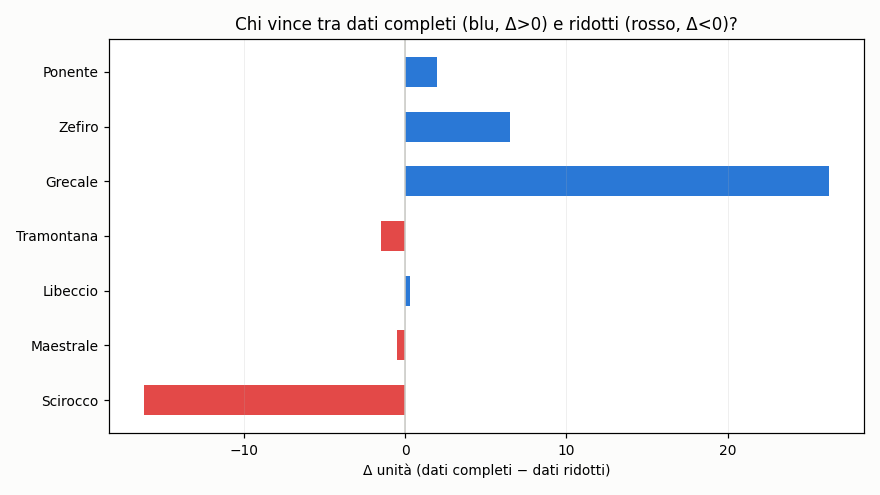
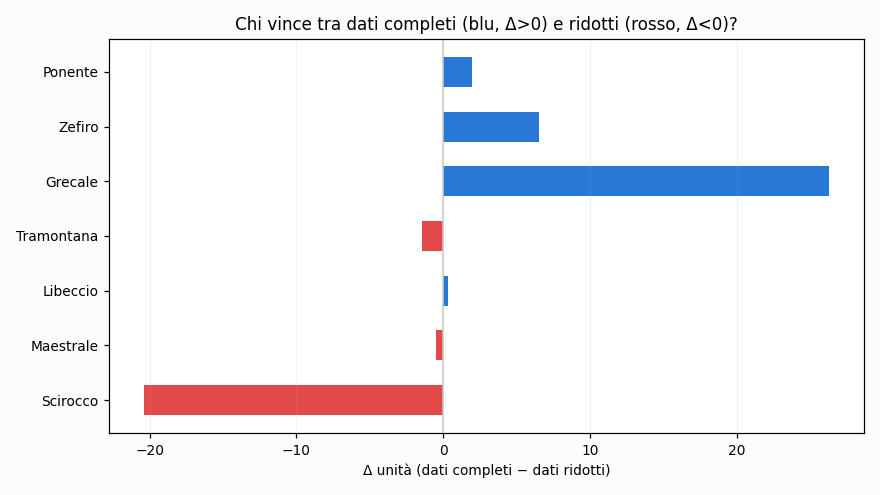
aggiornamento 2026-07-26 13:56 UTC

diff --git a/README.md b/README.md
@@ -37,9 +37,9 @@ scala in unità). Non indichiamo quale.
 
 ## Grafici
 
-![Coppie: dati completi vs ridotti](https://raw.githubusercontent.com/Kitem19/ippica-track-record/main/charts/equity_pairs.png?v=5e5bf558)
+![Coppie: dati completi vs ridotti](https://raw.githubusercontent.com/Kitem19/ippica-track-record/main/charts/equity_pairs.png?v=b3aca9e9)
 
-![Delta per coppia](https://raw.githubusercontent.com/Kitem19/ippica-track-record/main/charts/coppie_delta.png?v=a813c648)
+![Delta per coppia](https://raw.githubusercontent.com/Kitem19/ippica-track-record/main/charts/coppie_delta.png?v=15081922)
 
 ### Come leggere i grafici
 
@@ -56,7 +56,7 @@ scala in unità). Non indichiamo quale.
 
 _Poche giornate: numeri ancora rumorosi, si conclude a fine fase (31/7)._
 
-- **Scirocco**: dati ridotti avanti di 16,2u — qui gli extra non aiutano
+- **Scirocco**: dati ridotti avanti di 20,4u — qui gli extra non aiutano
 - **Maestrale**: in sostanziale pareggio — troppo presto per dire
 - **Libeccio**: in sostanziale pareggio — troppo presto per dire
 - **Tramontana**: in sostanziale pareggio — troppo presto per dire
@@ -69,7 +69,7 @@ _Poche giornate: numeri ancora rumorosi, si conclude a fine fase (31/7)._
 | Sistema | Cassa (u) | P/L (u) | Selezioni | Escluse | Stato |
 |---|---|---|---|---|---|
 | Grecale | 26,1 | +6,1 | 301 | 4 | 🟢 |
-| Scirocco-B | 16,1 | -3,9 | 230 | 0 | 🟢 |
+| Scirocco-B | 20,4 | +0,4 | 231 | 0 | 🟢 |
 | Zefiro | 6,1 | -13,9 | 261 | 8 | ⏸ |
 | Tramontana-B | 1,2 | -18,8 | 323 | 12 | ⏸ |
 | Ponente | 1,0 | -19,0 | 210 | 28 | 🟢 |
@@ -83,7 +83,7 @@ _Poche giornate: numeri ancora rumorosi, si conclude a fine fase (31/7)._
 | Libeccio-B | 0,0 | -20,9 | 119 | 178 | 🛑 |
 | Ponente-B | 0,0 | -21,0 | 63 | 84 | 🛑 |
 
-_Aggiornato: 26/07 15:51_
+_Aggiornato: 26/07 15:56_
 ---
 *Nessuna delle informazioni qui pubblicate costituisce consiglio di gioco.
 Il gioco può causare dipendenza — 18+.*
